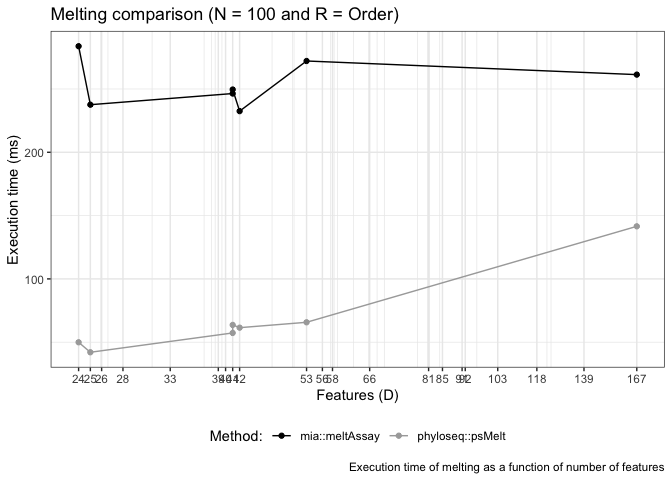
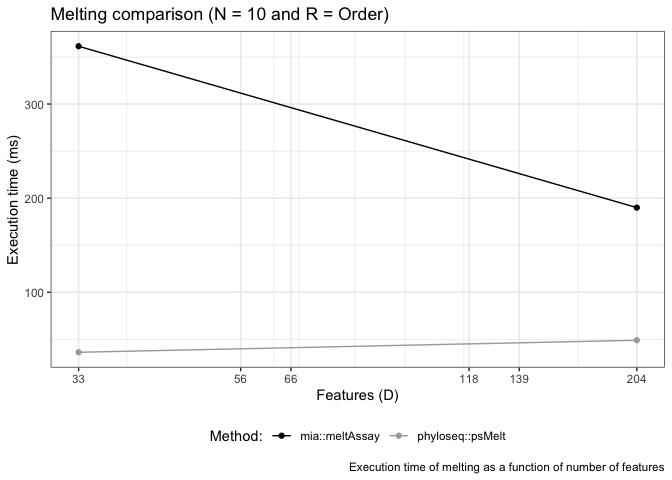
Convert to main.R method and render from script

diff --git a/reports/melt_benchmark.md b/reports/melt_benchmark.md
@@ -1,21 +1,53 @@
-    source("melt_benchmark.R", local = knitr::knit_global())
+    ### FUNCTION TO TEST MELTING FOR TSE OBJECT ###
+    melt_tse_exec_time <- function(tse) {
+      
+      start.time1 <- Sys.time()
+      molten_tse <- mia::meltAssay(tse,
+                                   add_row_data = TRUE,
+                                   add_col_data = TRUE)
+      end.time1 <- Sys.time()
+      
+      return(end.time1 - start.time1)
+      
+    }
+
+    ### FUNCTION TO TEST MELTING FOR TSE OBJECT ###
+    melt_pseq_exec_time <- function(pseq) {
+      
+      start.time2 <- Sys.time()
+      molten_pseq <- phyloseq::psmelt(pseq)
+      end.time2 <- Sys.time()
+      
+      return(end.time2 - start.time2)
+      
+    }
 
     # run benchmark on melting of tse and pseq with custom sample sizes
     df_melt <- experiment_benchmark(containers, df, melt_tse_exec_time, melt_pseq_exec_time, sample_sizes)
 
     # merge results from each data set into one data frame
-    df_melt <- merge_all(df_melt)
+    df_melt <- df_melt %>% merge_all() %>% filter(!is.na(Time))
+
+    # define sample size N and rank R for the plots
+    N <- 10
+    R <- "Order"
 
     # plot execution time for melting subsets from
-    # the taxonomic rank "Order" and with 100 samples 
-    p1_melt <- plot_exec_time(df_melt, 100, "Order")
-    p1_melt
+    # the taxonomic rank "Order" and with 1000 samples 
+    p1_melt <- plot_exec_time(df_melt, N, R)
+    print(p1_melt)
 
 ![](benchmark_files/figure-markdown_strict/melt_ex_time.png)
 
+    # make data frame with Time Ratio of tse to pseq execution time of experiment
+    dfsub <- pivot_wider(filter(df_melt, Samples == N, Rank == R)[ , c("Dataset", "Time", "Features", "ObjectType")], 
+                         names_from = c(ObjectType),
+                         values_from = Time, Features) %>%
+      mutate(Ratio = tse / pseq)
+
     # plot execution time ratio for melting subsets from
     # the taxonomic rank "Order" and with 1000 samples
-    p2_melt <- plot_ratio(df_melt, 1000, "Order")
-    p2_melt
+    p2_melt <- plot_ratio(dfsub)
+    print(p2_melt)
 
 ![](benchmark_files/figure-markdown_strict/melt_ratio.png)
